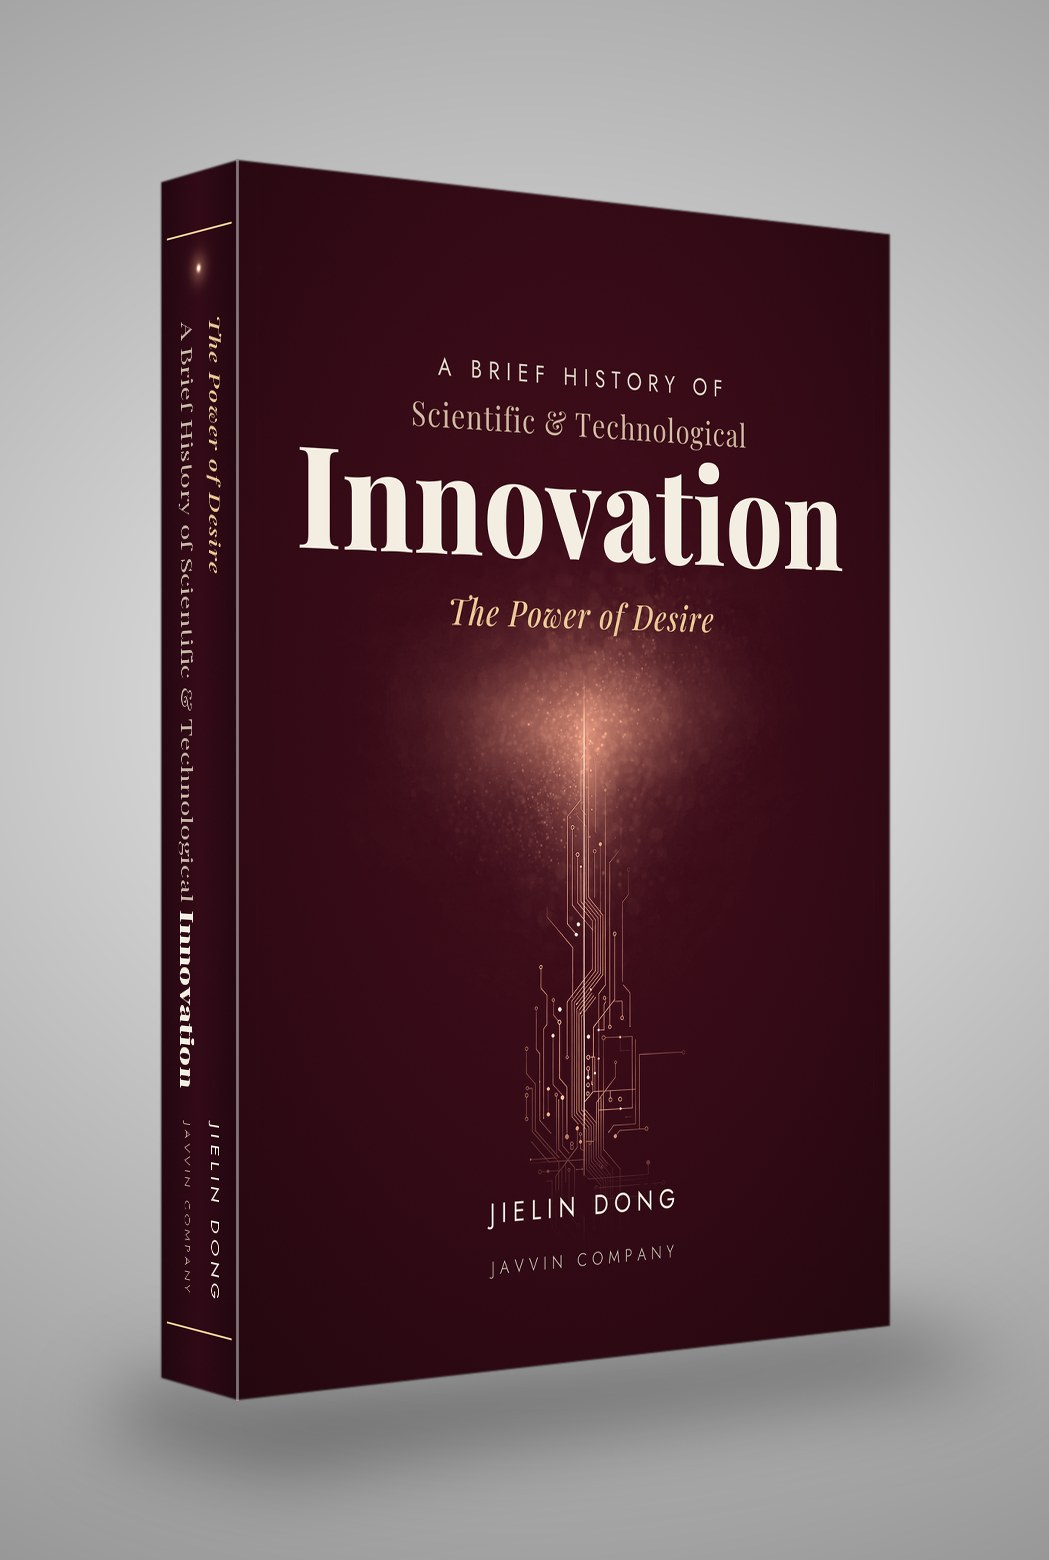
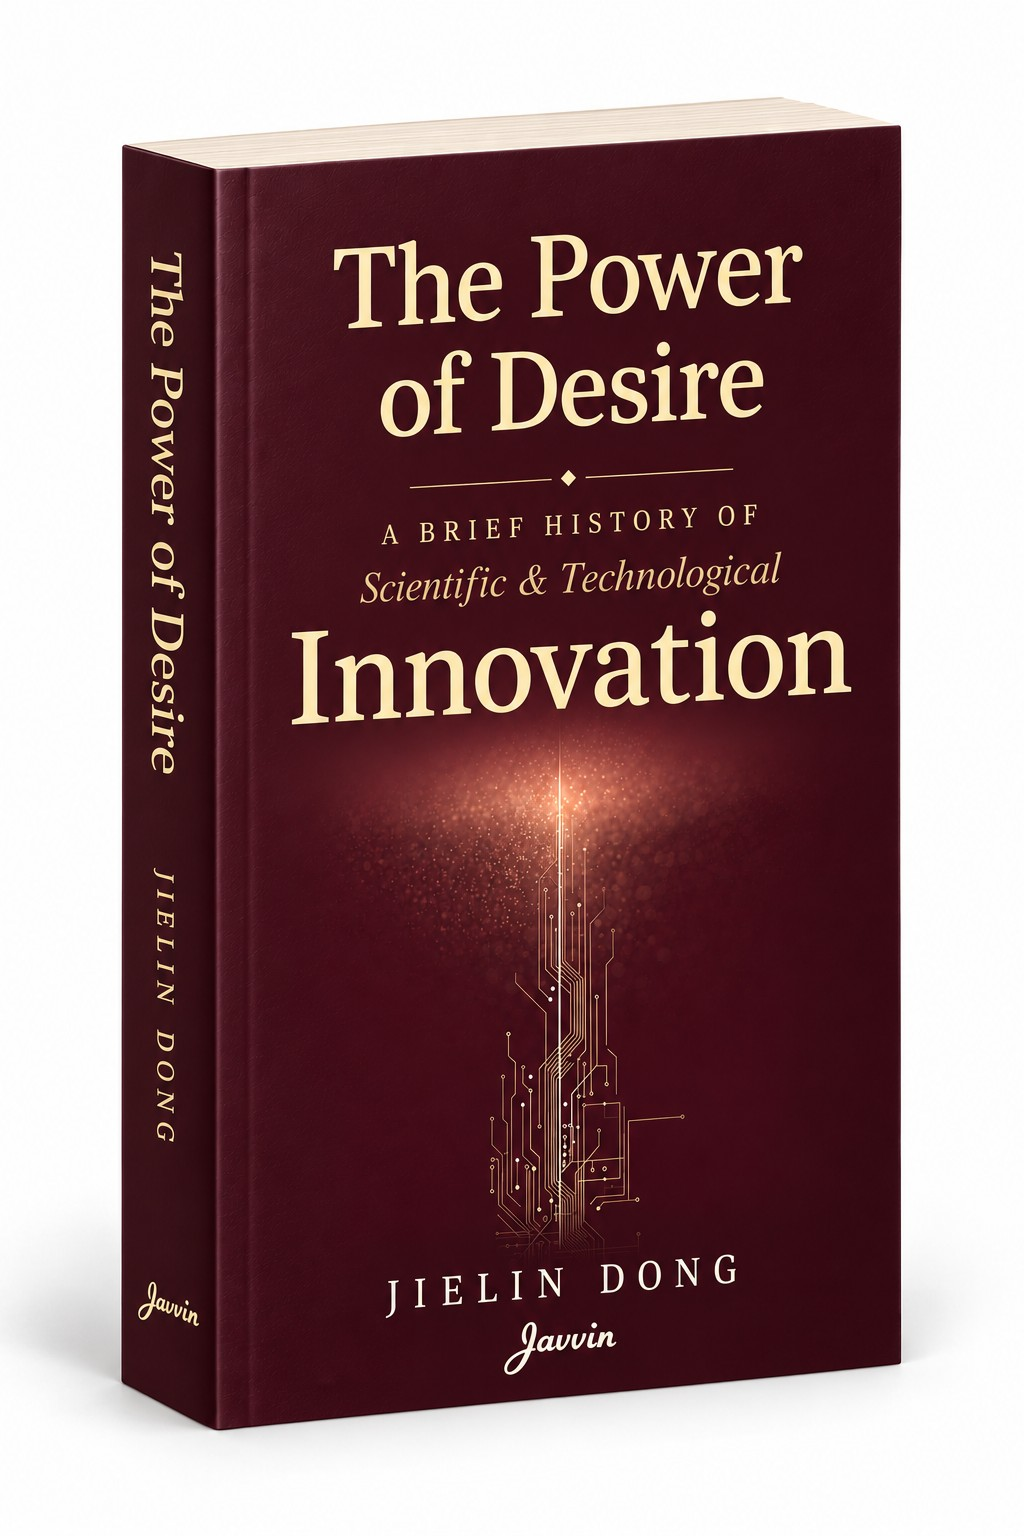
Update site

diff --git a/en/index.html b/en/index.html
@@ -261,7 +261,7 @@
 </header>
 <div class="hero">
 
-<img alt="The Power of Desire: A Brief History of Scientific &amp; Technological Innovation — book cover" src="../assets/covers/cover-en-front.jpg"/>
+<img alt="The Power of Desire: A Brief History of Scientific &amp; Technological Innovation — book cover" src="../assets/covers/cover-en-3d.jpg"/>
 <div class="hero-text">
 
 
